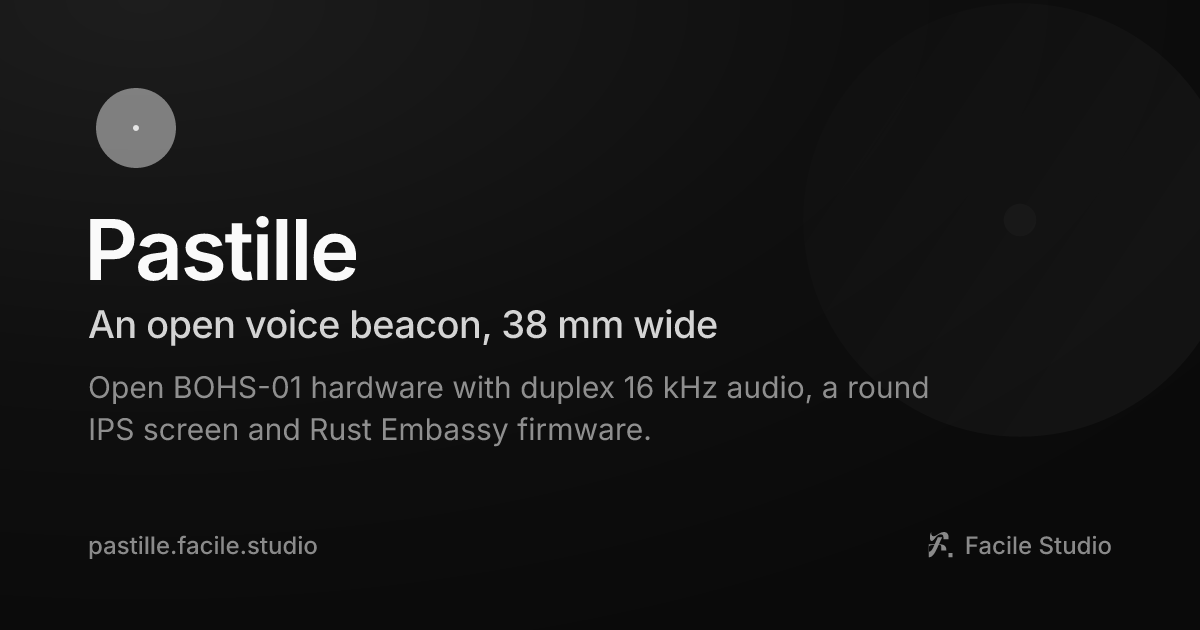
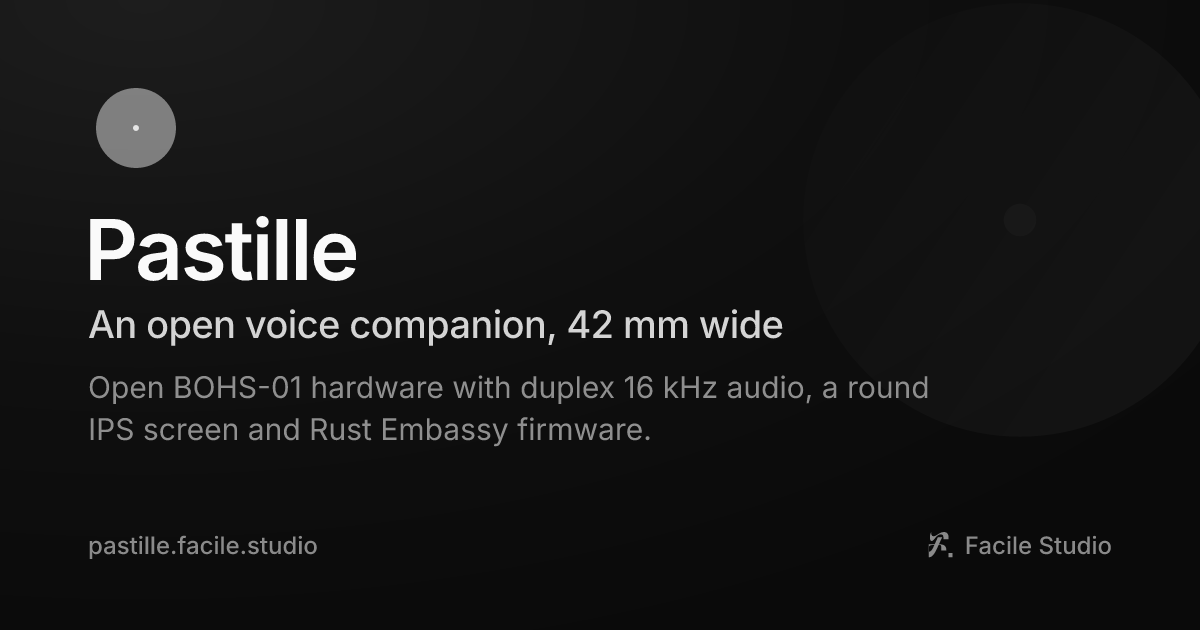
fix(brand): give the head metadata the 42 mm disc size

Changed region(s): [[0.2775, 0.4825, 0.6475, 0.5429]]

diff --git a/apps/web/src/app.html b/apps/web/src/app.html
@@ -3,7 +3,7 @@
   <head>
     <meta charset="utf-8" />
     <meta name="viewport" content="width=device-width, initial-scale=1" />
-    <title>Pastille · An open voice beacon, 38 mm wide</title>
+    <title>Pastille · An open voice companion, 42 mm wide</title>
     <meta name="description" content="Open BOHS-01 hardware with duplex 16 kHz audio, a round IPS screen and Rust Embassy firmware." />
     <link rel="icon" href="/favicon.svg" type="image/svg+xml" />
     <link rel="icon" href="/favicon.ico" sizes="48x48" />
@@ -15,14 +15,14 @@
     <meta property="og:site_name" content="Facile" />
     <meta property="og:locale" content="en_US" />
     <meta property="og:url" content="https://pastille.facile.studio/" />
-    <meta property="og:title" content="Pastille · An open voice beacon, 38 mm wide" />
+    <meta property="og:title" content="Pastille · An open voice companion, 42 mm wide" />
     <meta property="og:description" content="Open BOHS-01 hardware with duplex 16 kHz audio, a round IPS screen and Rust Embassy firmware." />
     <meta property="og:image" content="https://pastille.facile.studio/og-image.png" />
     <meta property="og:image:width" content="1200" />
     <meta property="og:image:height" content="630" />
-    <meta property="og:image:alt" content="Pastille: An open voice beacon, 38 mm wide" />
+    <meta property="og:image:alt" content="Pastille: An open voice companion, 42 mm wide" />
     <meta name="twitter:card" content="summary_large_image" />
-    <meta name="twitter:title" content="Pastille · An open voice beacon, 38 mm wide" />
+    <meta name="twitter:title" content="Pastille · An open voice companion, 42 mm wide" />
     <meta name="twitter:description" content="Open BOHS-01 hardware with duplex 16 kHz audio, a round IPS screen and Rust Embassy firmware." />
     <meta name="twitter:image" content="https://pastille.facile.studio/og-image.png" />
     <meta name="color-scheme" content="light dark" />
